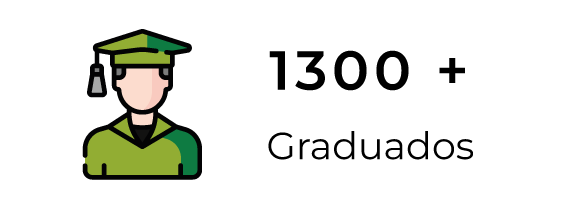
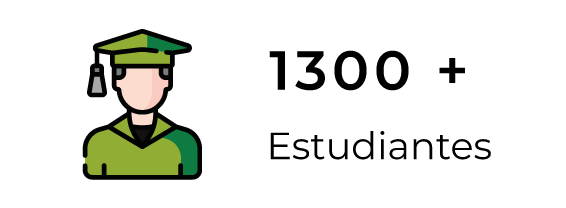
*

Changed region(s): [[0.4505, 0.6346, 0.871, 0.7788]]

diff --git a/general.html b/general.html
@@ -106,7 +106,7 @@
             </div>
         </div>
         <div class="hero-image">
-            <img src="images/user.png" class="userImage">
+            <img src="images/user-hero.png" class="userImage">
             <img src="images/academic.png" class="heroIcon1">
             <img src="images/students.png" class="heroIcon2">
             <div class="circle-container">
@@ -161,9 +161,6 @@
             <h1 class="heading">Campo<br><span>Ocupacional</span></h1>
             <ul class="custom-list">
                 <li>Industrial de conservación de alimentos frescos: supervisión en líneas de producción.</li>
-                <li>Industrias de fábricas de bebidas y productos alimentarios.</li>
-                <li>Asistencia en el aseguramiento de calidad, logística y ventas en empresas procesadoras de alimentos,
-                    bebidas y aditivos; diseñadoras y constructoras de equipos y sistemas de embalaje y envasado.</li>
             </ul>
             <a href="./profile.html"><button class="commonBtn">Ver Más</button></a>
         </div>
@@ -391,7 +388,7 @@
                 <img src="images/specialist.jpg" alt="">
             </div>
             <div class="specialist-content" data-aos="fade-left">
-                <h1 class="heading">Conviértete en un <span>Especialista</span></h1>
+                <h1 class="heading">Conviértete en un <span>Bachiller</span></h1>
                 <p>
                     Bachiller en conservación de alimentos enfocado en garantizar la seguridad, 
                     calidad, inocuidad y vida útil de los productos

diff --git a/profile.html b/profile.html
@@ -42,7 +42,7 @@
 
     <section class="profile">
         <h1 class="heading profile-title">
-            Perfil<span> Profesional</span>
+            Perfil<span> Técnico</span>
         </h1>
         <div class="profile-box">
             <span>Industrializar la <strong>leche</strong>, elaborando productos como:<br>
